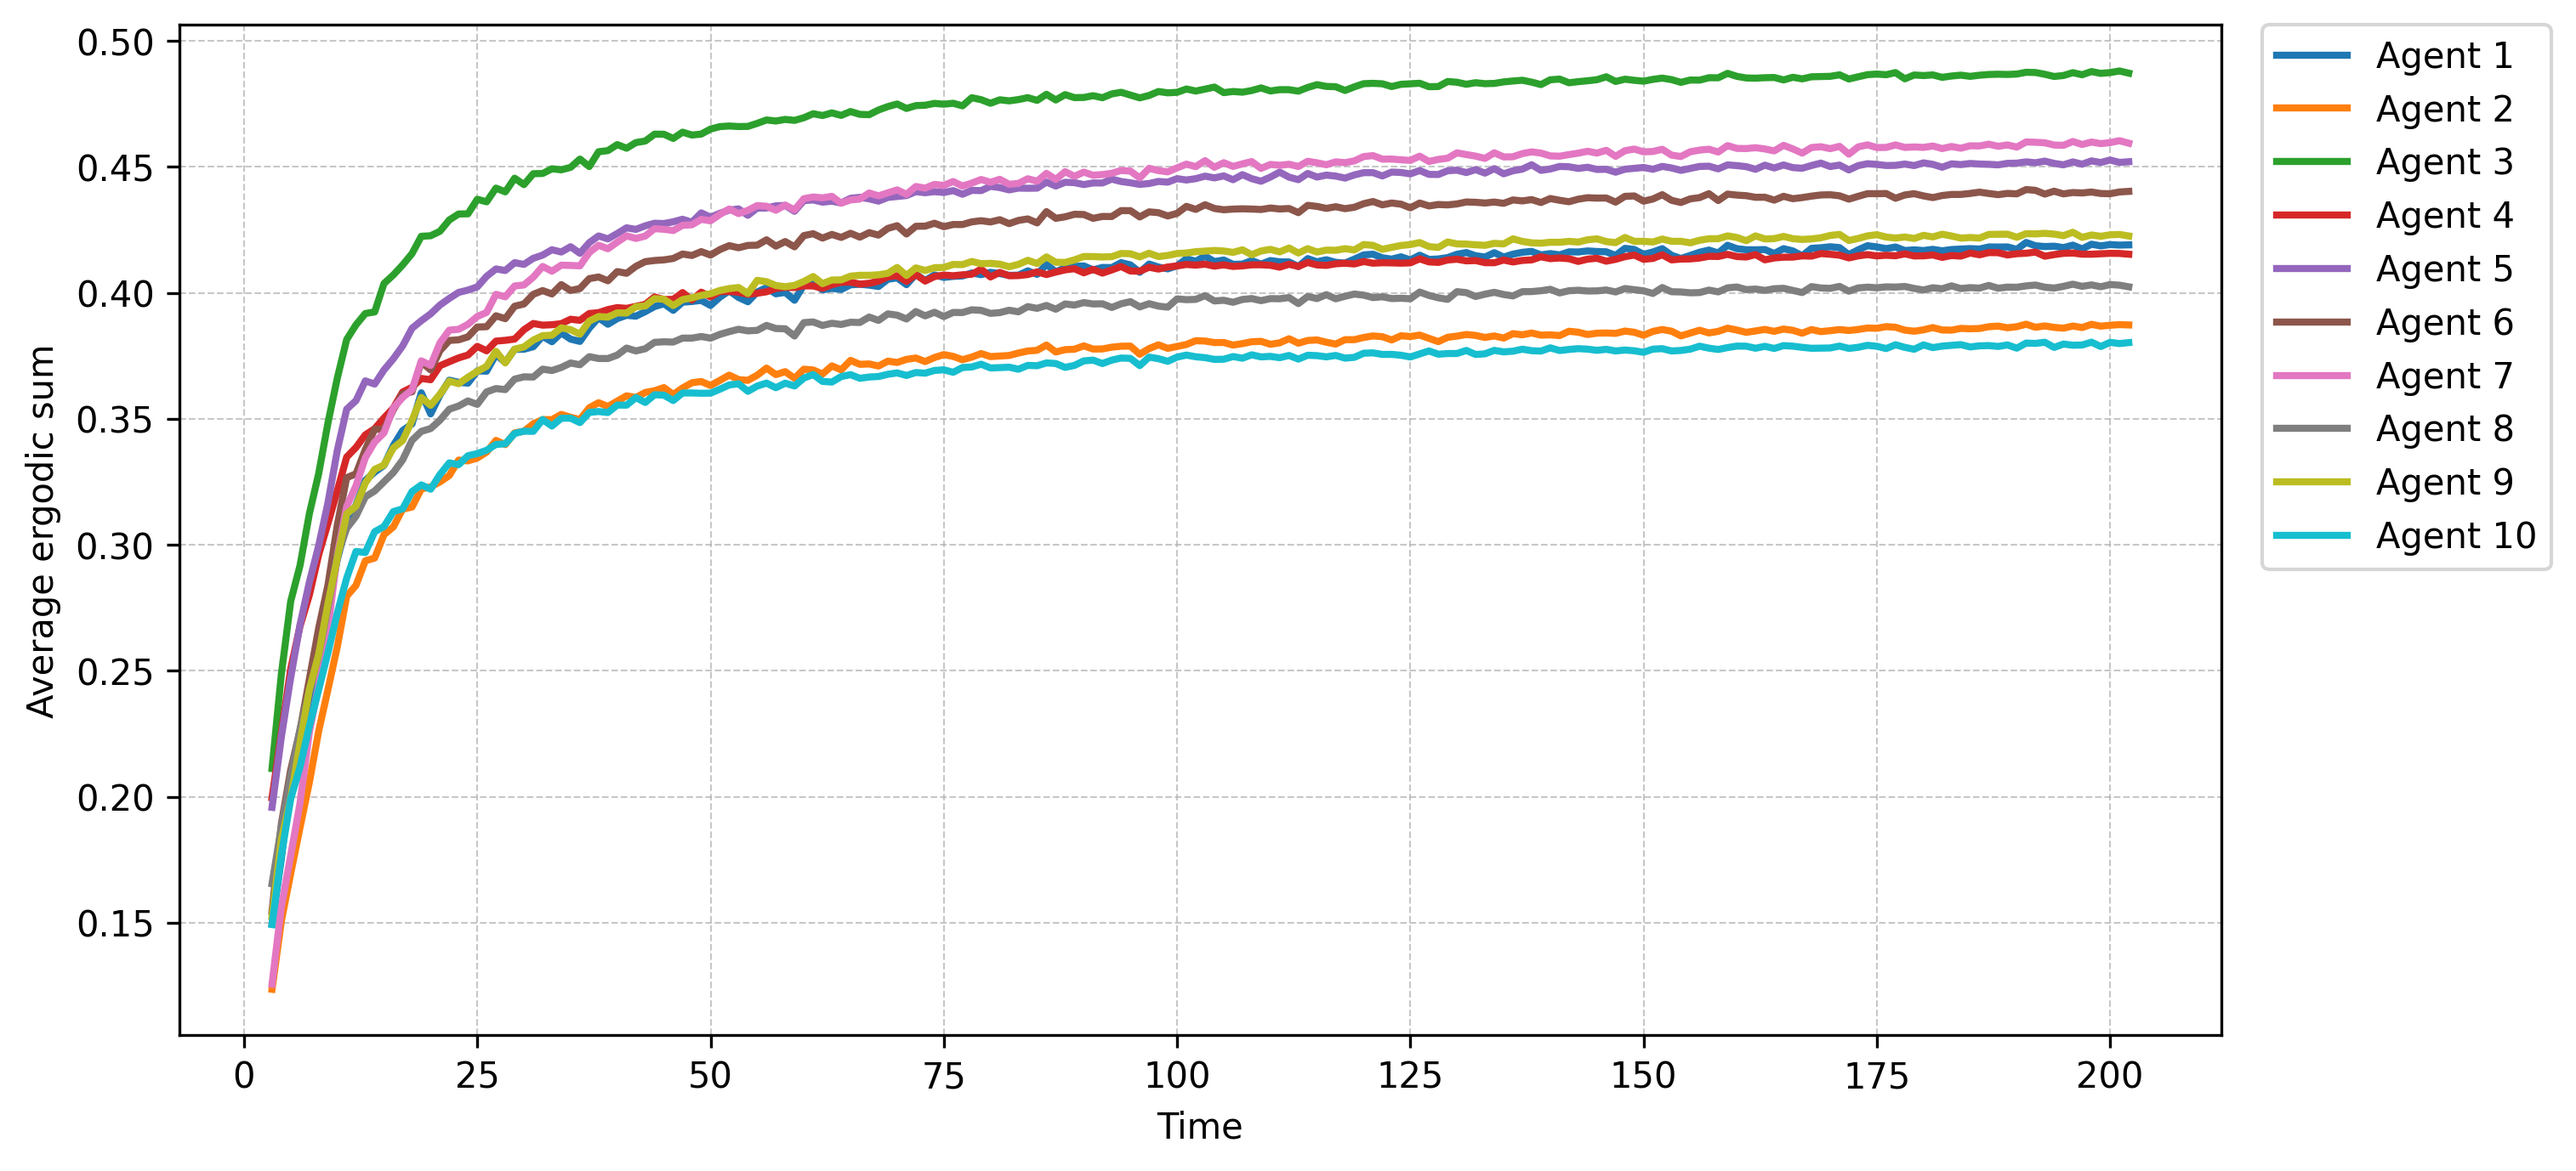
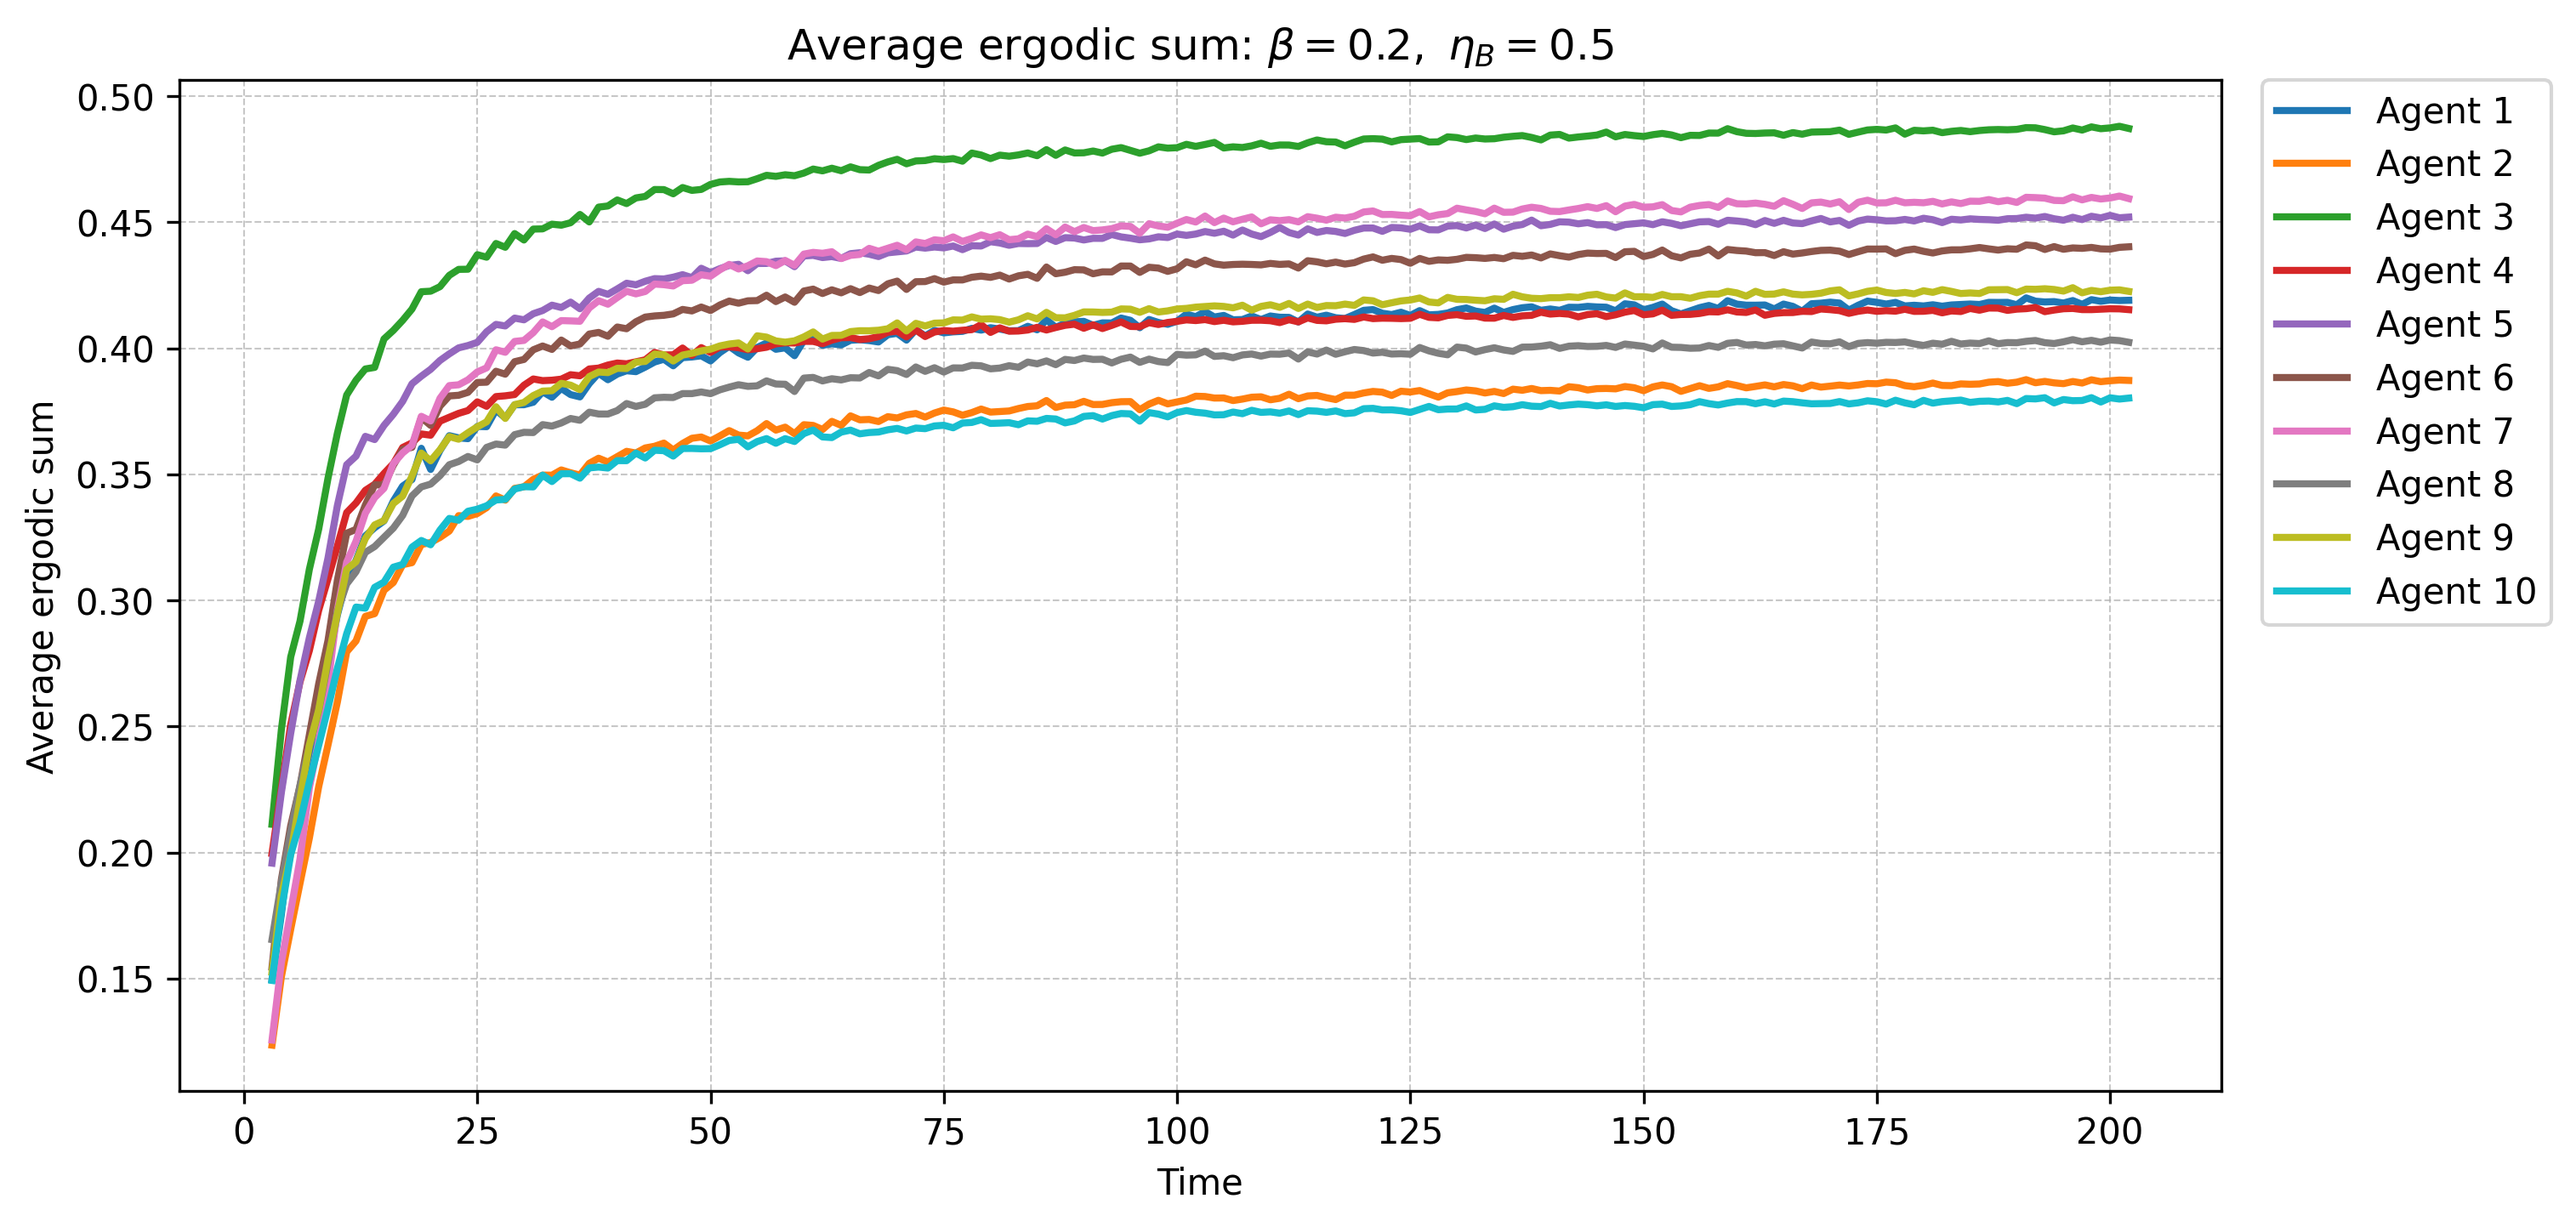
added title to nonhomo_bot figure

diff --git a/src/simulations/test.py b/src/simulations/test.py
@@ -2,7 +2,7 @@ import numpy as np
 import matplotlib.pyplot as plt 
 Time = 200
 N=10
-all_means = np.load("data/all_means_N10_M5_homo_hub_spoke_bot_.npy")
+all_means = np.load("data/all_means_N10_M5_nonhomo_bot.npy")
 
 time = np.arange(3, Time + 3)
 
@@ -16,13 +16,13 @@ for node in range(N):
         linewidth=2,
         label=f"Agent {node+1}"
     )
-plt.axhline(
-    y=0.1,
-    color="black",
-    linestyle="--",
-    linewidth=2,
-    label=r"$p^{(*)}=0.1$"
-)
+#plt.axhline(
+#    y=0.1,
+#    color="black",
+#    linestyle="--",
+#    linewidth=2,
+#    label=r"$p^{(*)}=0.1$"
+#)
 plt.legend(
     bbox_to_anchor=(1.02, 1),
     loc="upper left",
@@ -36,11 +36,11 @@ plt.ylabel("Average ergodic sum")
 plt.grid(True, linestyle="--", linewidth=0.5, alpha=0.7)
 
 plt.title(
-    rf"Average ergodic sum: $\beta = 0.2,\ \eta_B = 0.05$"
+    rf"Average ergodic sum: $\beta = 0.2,\ \eta_B = 0.5$"
 )
 
 plt.savefig(
-    "figures/all_means_N10_M5_homo_hub_spoke_bot.png",
+    "figures/all_means_N10_M5_nonhomo_bot.png",
     dpi=300,
     bbox_inches="tight"
 )
